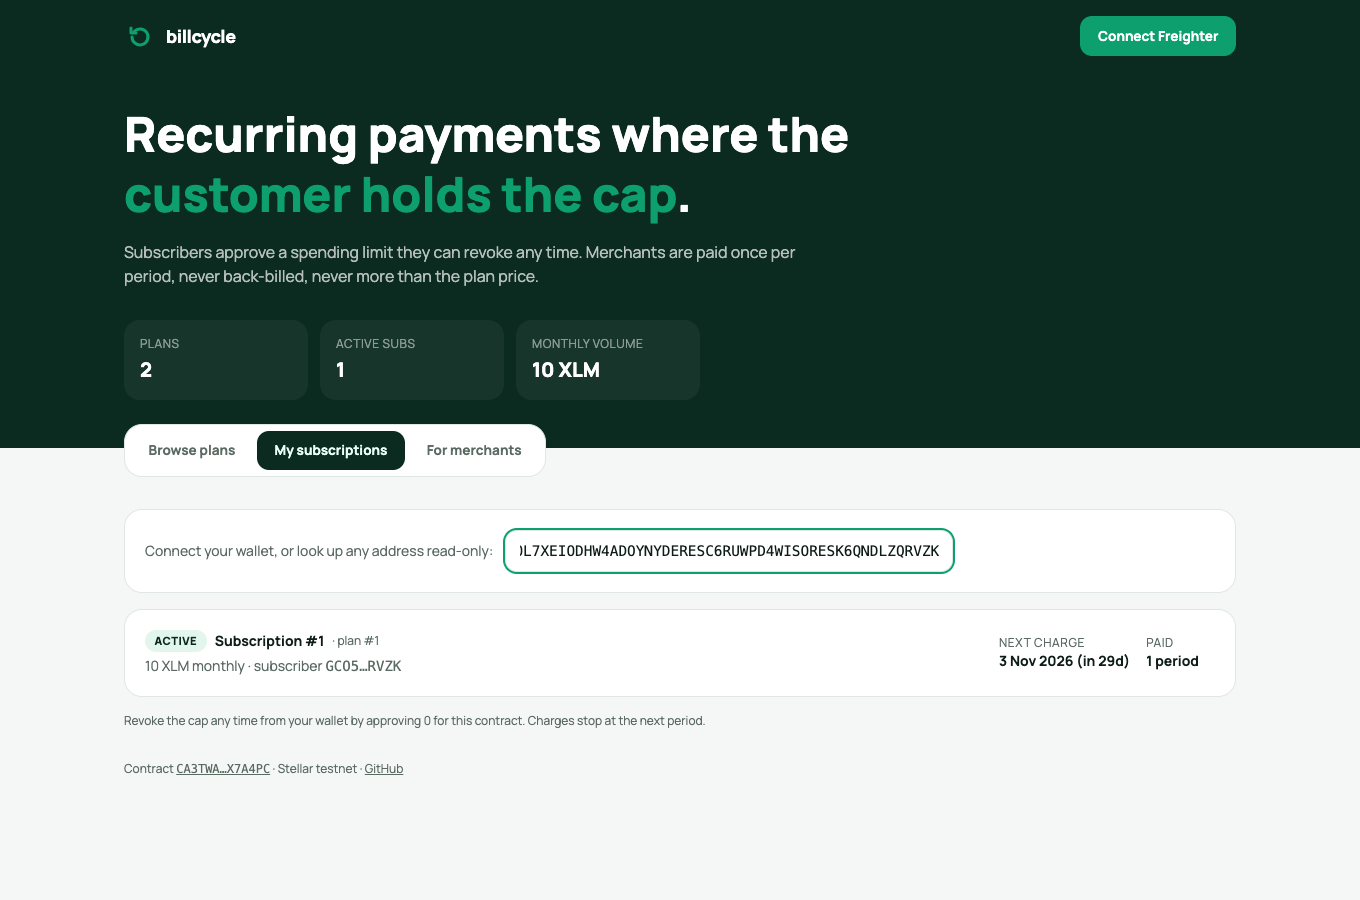
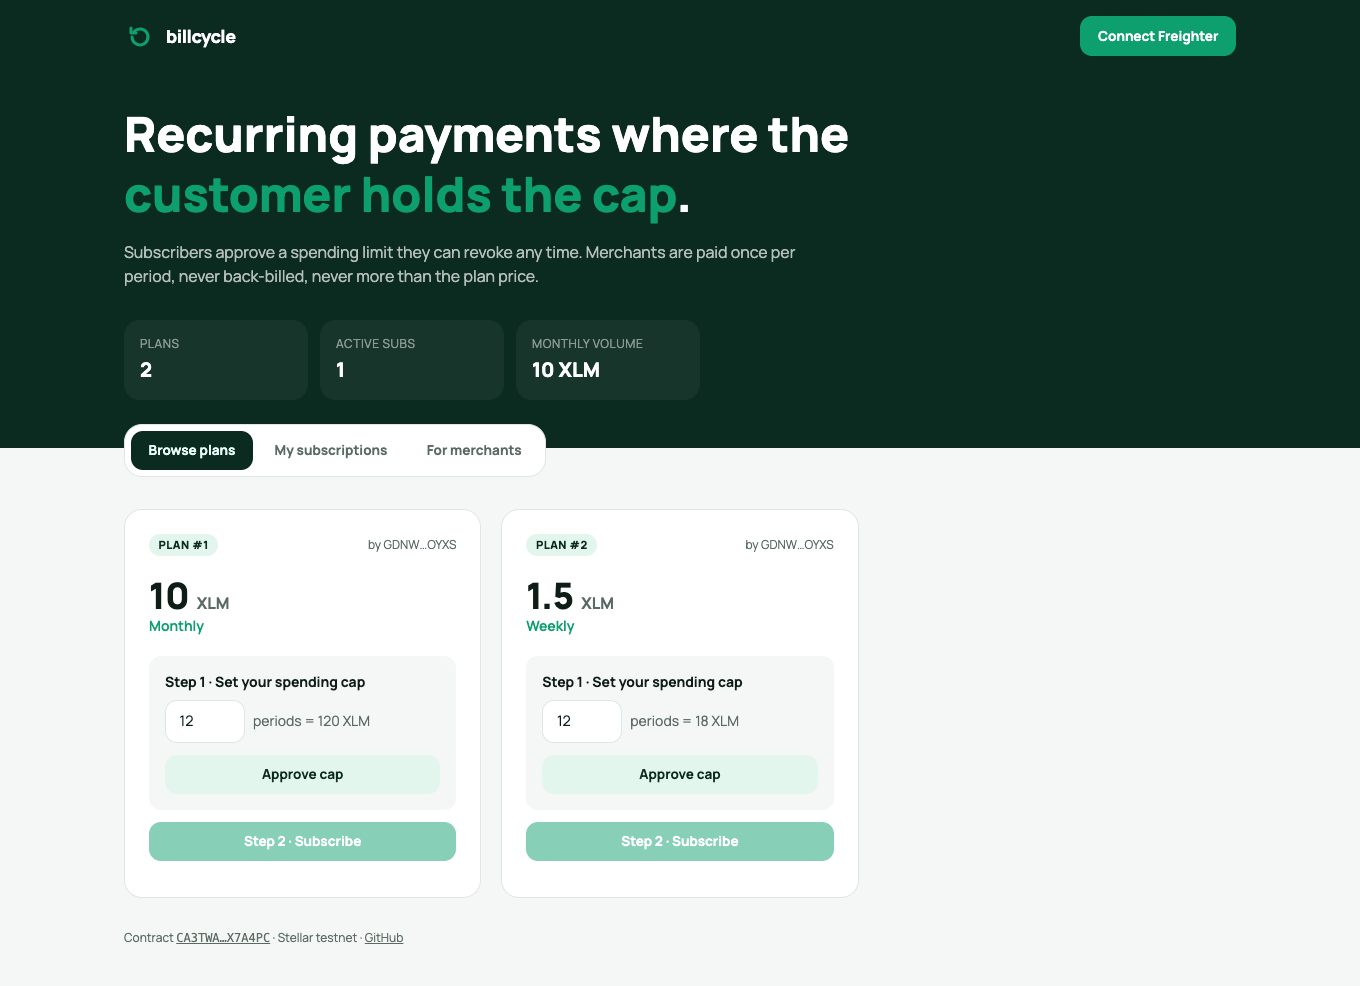
fix(web): let Tailwind utilities override component classes
The custom .input/.btn-style classes were unlayered, so they beat
Tailwind utilities and width helpers like w-20 were ignored (inputs
stretched full width). Move them into @layer components.

diff --git a/web/src/index.css b/web/src/index.css
@@ -14,13 +14,17 @@
   --font-sans: "Manrope", system-ui, sans-serif;
 }
 body { background: var(--color-bg); color: var(--color-ink); font-family: var(--font-sans); }
-.card { background: var(--color-card); border: 1px solid var(--color-line); border-radius: 18px; }
-.inp { width: 100%; border: 1px solid var(--color-line); border-radius: 12px; padding: .65rem .85rem; font-size: .9rem; background: #fff; }
-.inp:focus { outline: 2px solid var(--color-mint); outline-offset: 0; }
-.btn { border-radius: 12px; padding: .6rem 1.1rem; font-weight: 700; font-size: .85rem; }
-.btn:disabled { opacity: .5; cursor: not-allowed; }
-.btn-mint { background: var(--color-mint); color: #fff; }
-.btn-night { background: var(--color-night); color: #e9fff6; }
-.btn-soft { background: var(--color-mint-soft); color: var(--color-night); }
-.btn-out { border: 1px solid var(--color-line); background: #fff; }
-.chip { border-radius: 999px; padding: .15rem .6rem; font-size: .7rem; font-weight: 800; letter-spacing: .04em; text-transform: uppercase; }
+
+/* In the components layer so Tailwind utilities (w-*, etc.) can override these. */
+@layer components {
+  .card { background: var(--color-card); border: 1px solid var(--color-line); border-radius: 18px; }
+  .inp { width: 100%; border: 1px solid var(--color-line); border-radius: 12px; padding: .65rem .85rem; font-size: .9rem; background: #fff; }
+  .inp:focus { outline: 2px solid var(--color-mint); outline-offset: 0; }
+  .btn { border-radius: 12px; padding: .6rem 1.1rem; font-weight: 700; font-size: .85rem; }
+  .btn:disabled { opacity: .5; cursor: not-allowed; }
+  .btn-mint { background: var(--color-mint); color: #fff; }
+  .btn-night { background: var(--color-night); color: #e9fff6; }
+  .btn-soft { background: var(--color-mint-soft); color: var(--color-night); }
+  .btn-out { border: 1px solid var(--color-line); background: #fff; }
+  .chip { border-radius: 999px; padding: .15rem .6rem; font-size: .7rem; font-weight: 800; letter-spacing: .04em; text-transform: uppercase; }
+}
